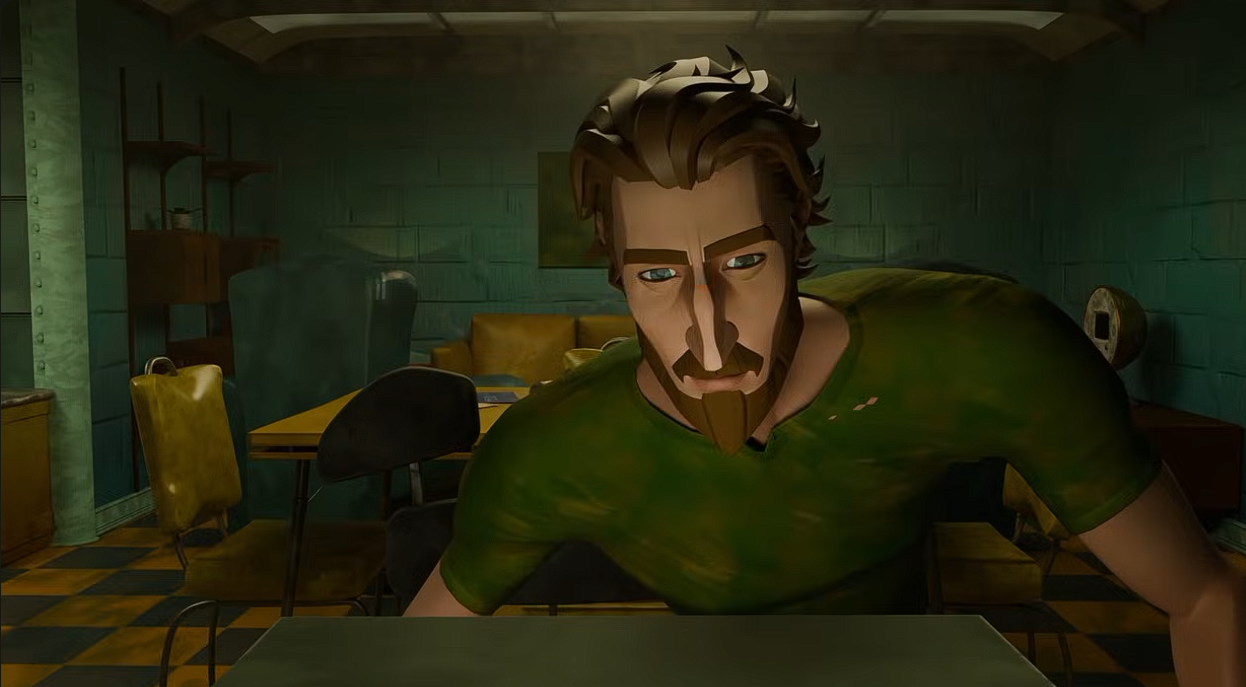
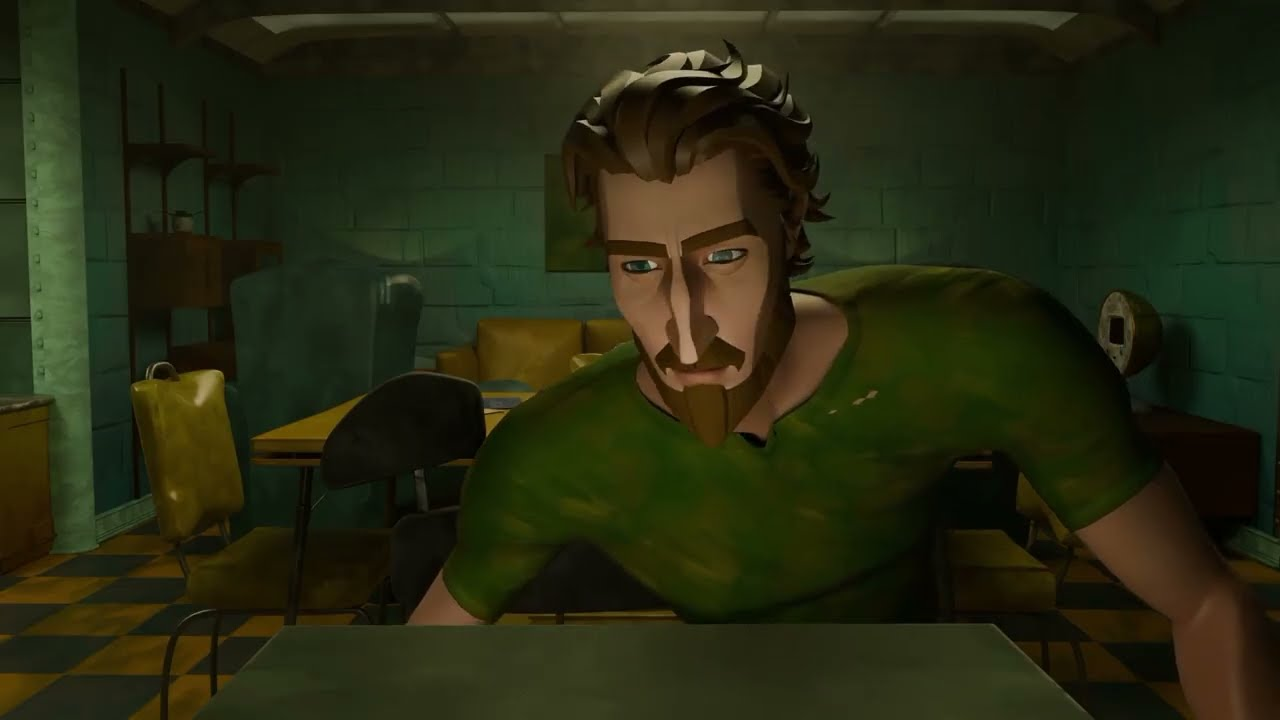
Update image dimensions for Project T.O.M.A.TE. preview and replace assets

diff --git a/src/index.html b/src/index.html
@@ -94,8 +94,8 @@
              aria-label="Play Project T.O.M.A.TE.">
             <img src="assets/tomate-still.png"
                  alt="A frame from Project T.O.M.A.TE., showing its central character and cinematic lighting."
-                 width="1246"
-                 height="687"
+                 width="1280"
+                 height="720"
                  loading="lazy">
             <span class="image-label">WATCH FILM <span class="icon icon-arrow-up-right"
                     aria-hidden="true"></span></span>
